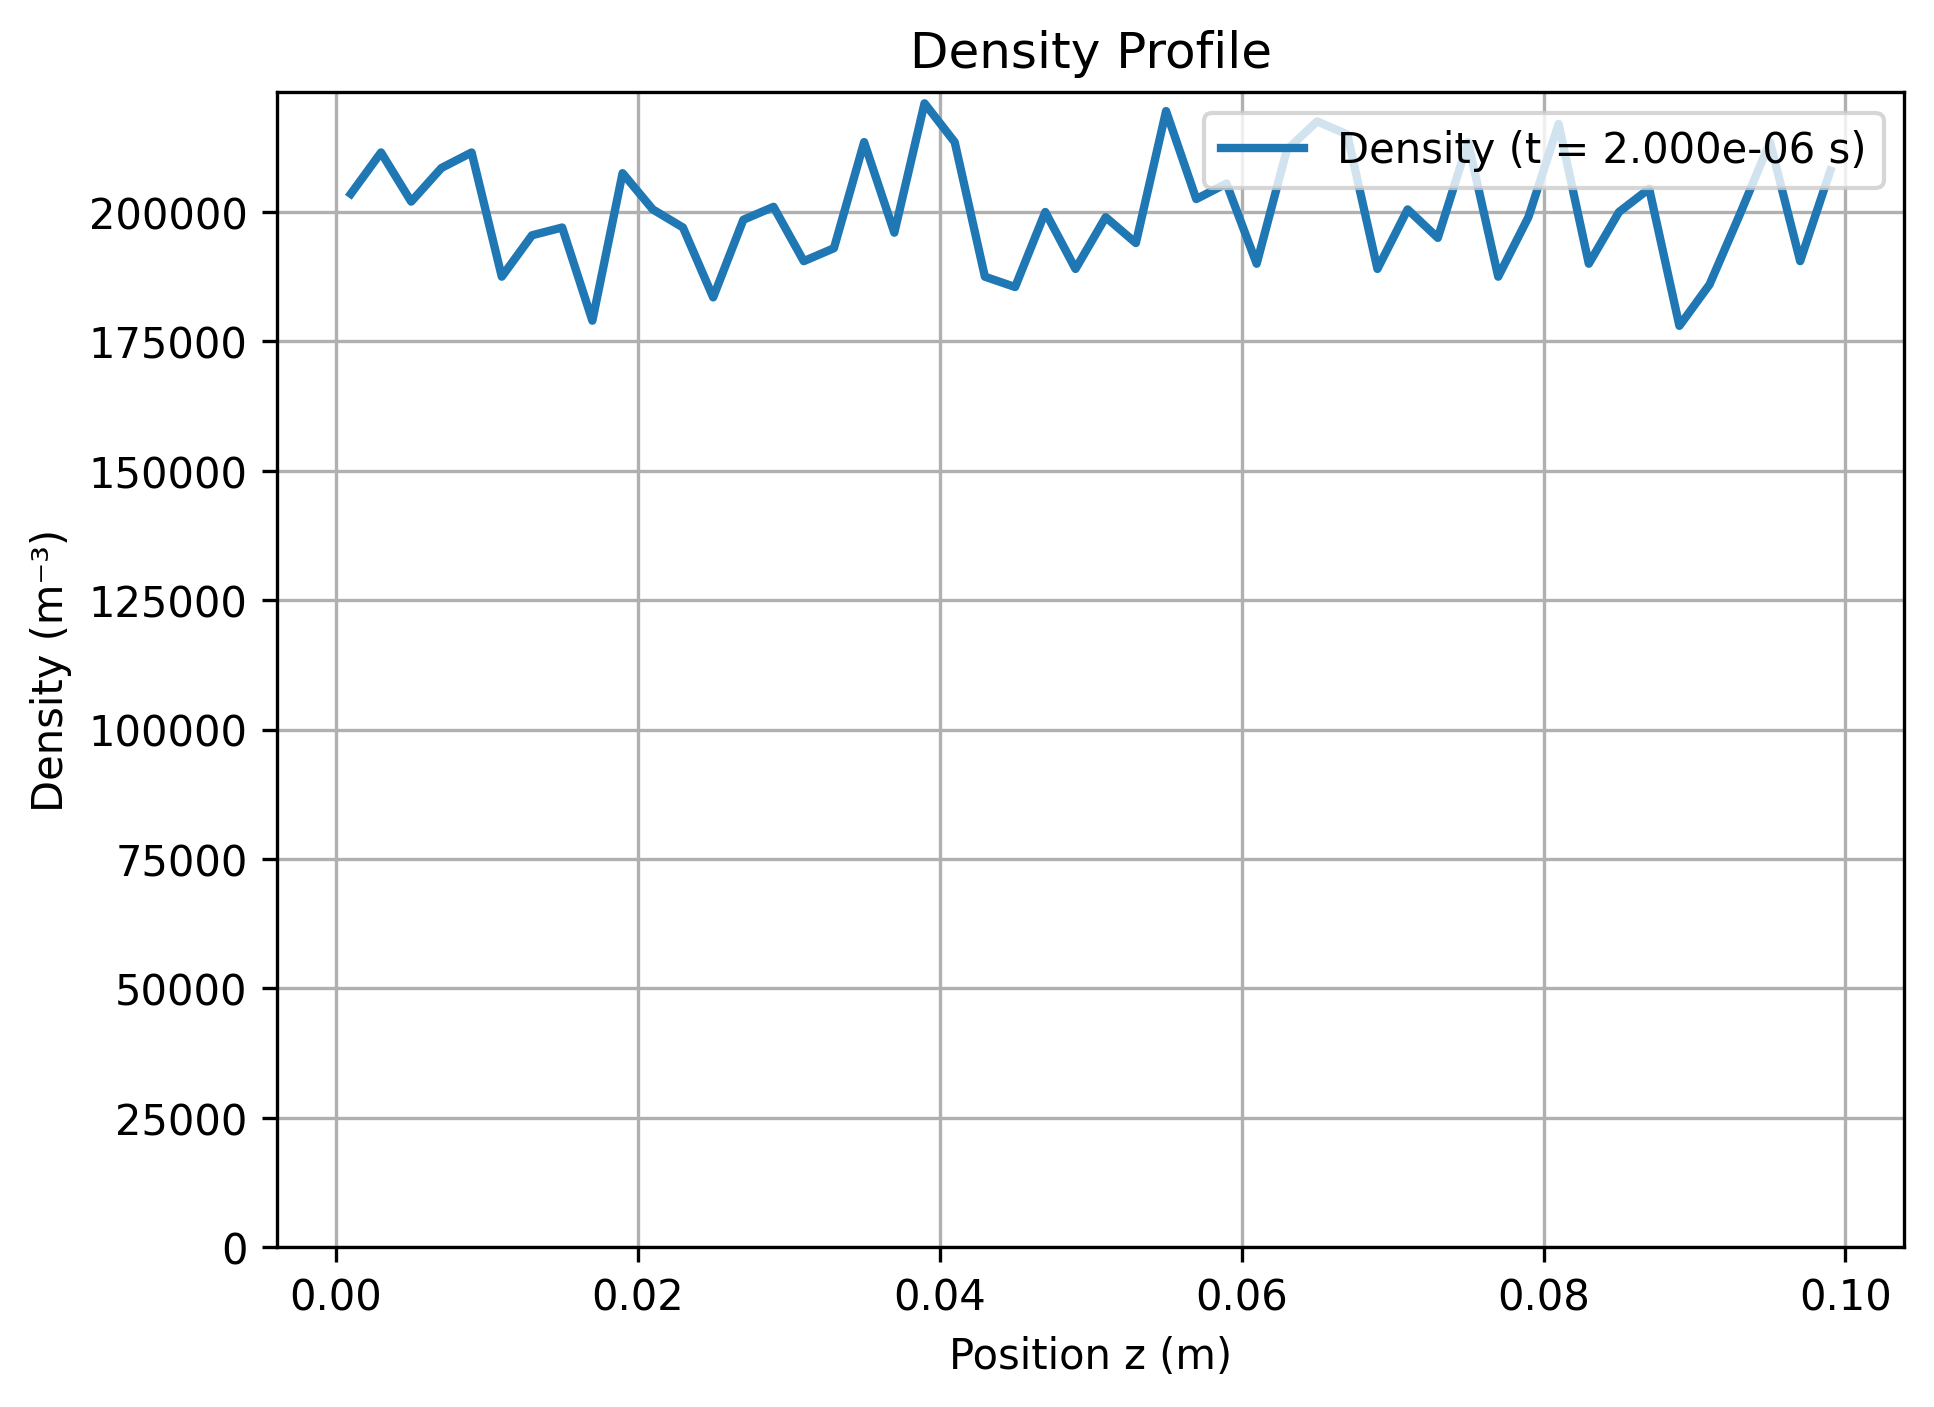
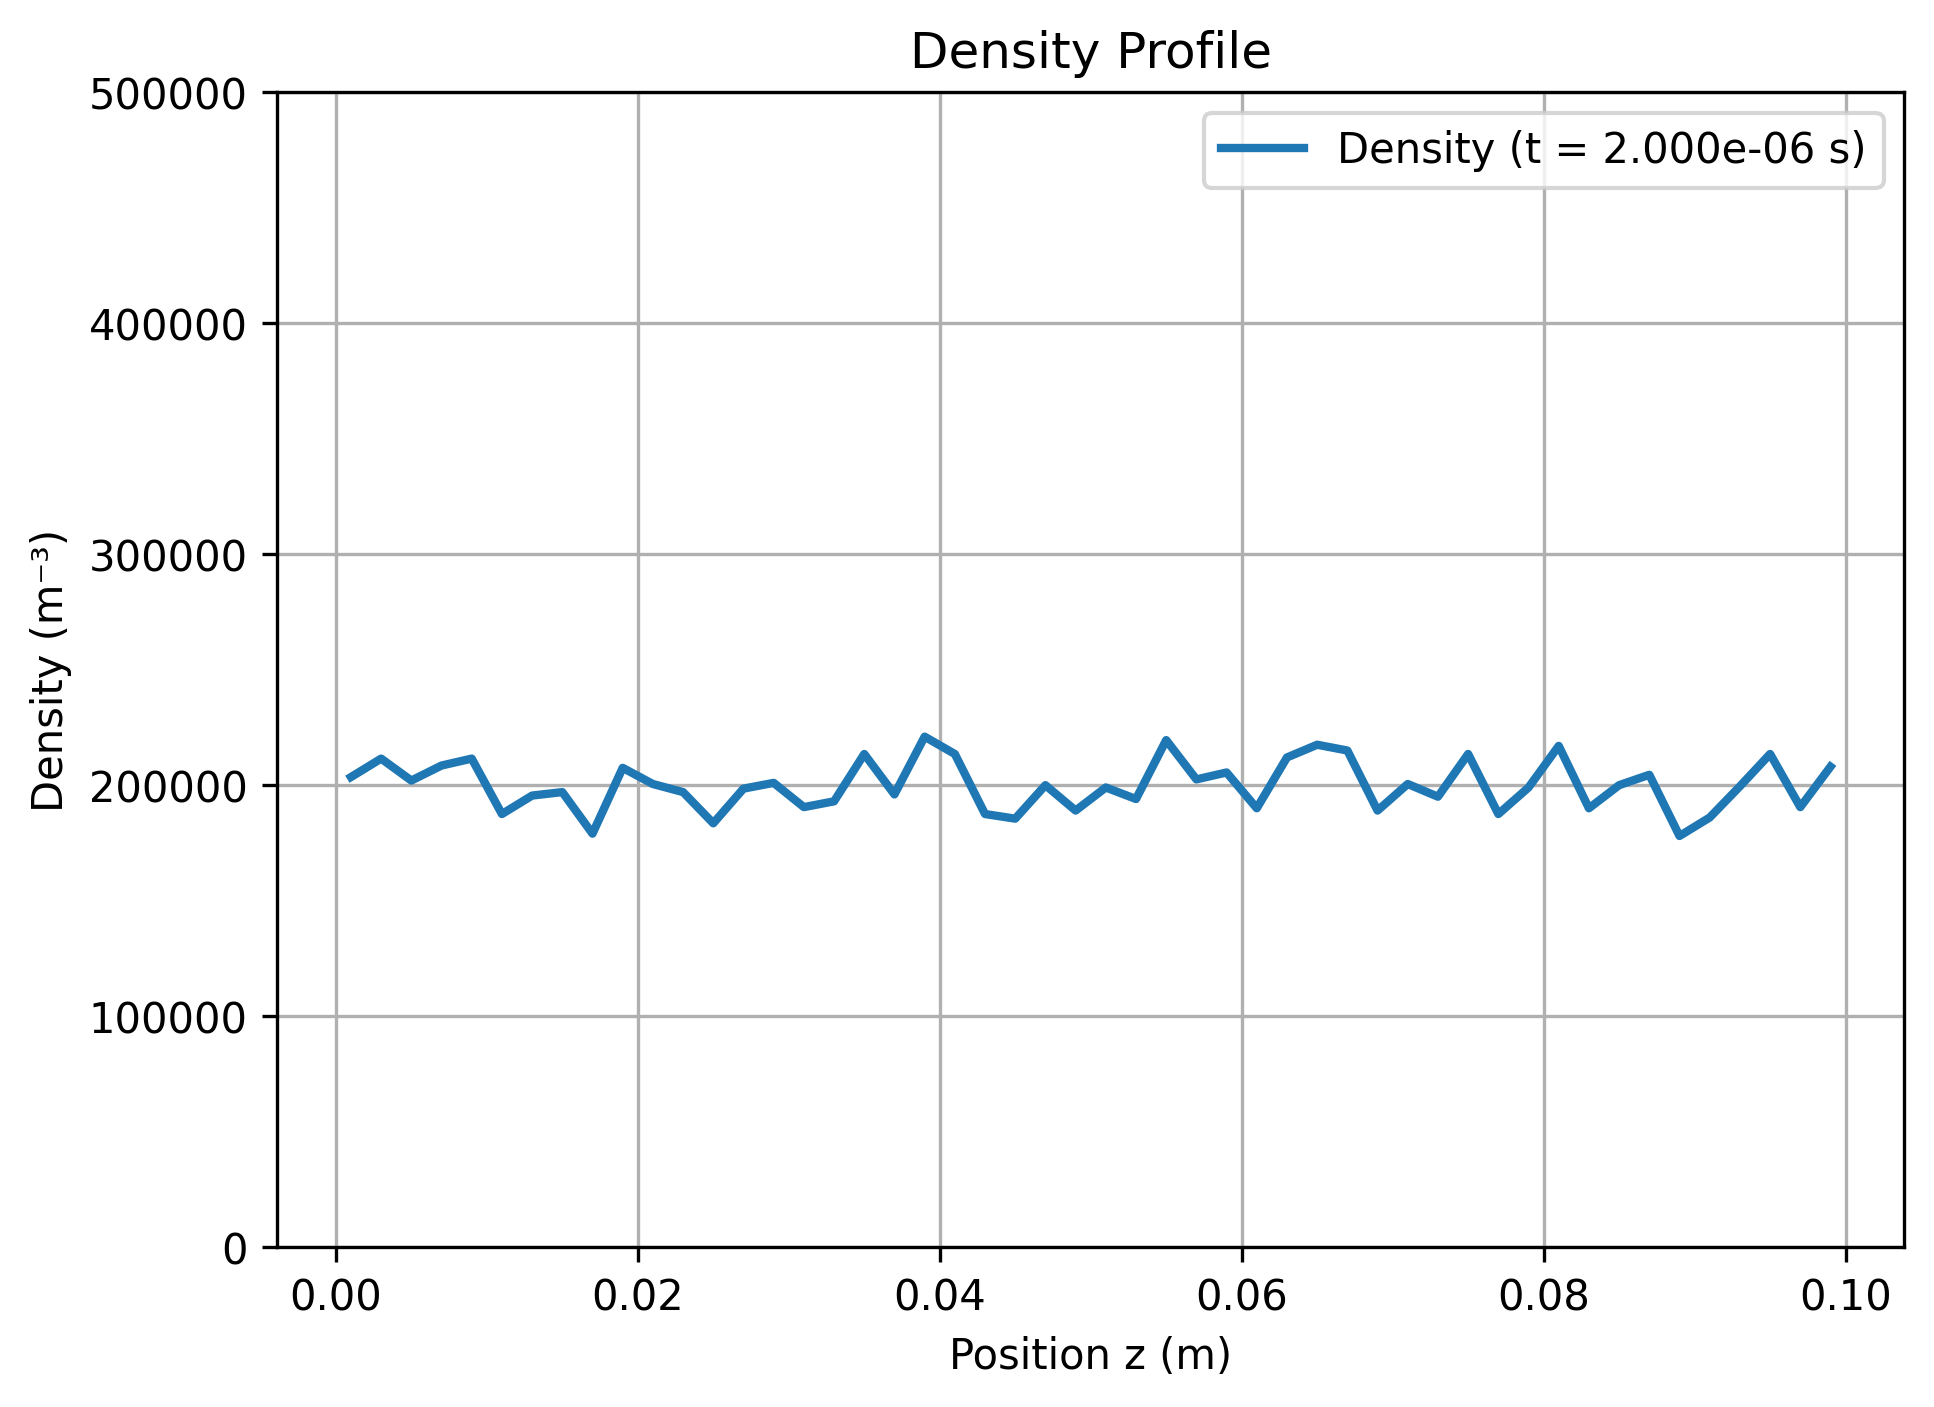
Fix y lim for density plots

diff --git a/examples/magneticmirror/plotting/magneticmirror_plotting.py b/examples/magneticmirror/plotting/magneticmirror_plotting.py
@@ -61,7 +61,7 @@ def plot_density_profile(z_centers, density_m3, time_label="", save_path=None):
     plt.ylabel("Density (m⁻³)")
     plt.grid(True)
     plt.legend(loc="upper right")
-    plt.ylim(bottom=0)
+    plt.ylim(0, 3.0e5)
 
     if save_path is not None:
         plt.savefig(save_path, dpi=300, bbox_inches="tight")

diff --git a/examples/uniformE/plotting/uniformE_plotting.py b/examples/uniformE/plotting/uniformE_plotting.py
@@ -63,7 +63,7 @@ def plot_density_profile(z_centers, density_m3, time_label="", save_path=None):
     plt.ylabel("Density (m⁻³)")
     plt.grid(True)
     plt.legend(loc="upper right")
-    plt.ylim(bottom=0)
+    plt.ylim(0, 5.0e5)
 
     if save_path is not None:
         plt.savefig(save_path, dpi=300, bbox_inches="tight")

diff --git a/examples/uniformE_B/plotting/uniformE_B_plotting.py b/examples/uniformE_B/plotting/uniformE_B_plotting.py
@@ -61,7 +61,7 @@ def plot_density_profile(z_centers, density_m3, time_label="", save_path=None):
     plt.ylabel("Density (m⁻³)")
     plt.grid(True)
     plt.legend(loc="upper right")
-    plt.ylim(bottom=0)
+    plt.ylim(0, 5.0e5)
 
     if save_path is not None:
         plt.savefig(save_path, dpi=300, bbox_inches="tight")
